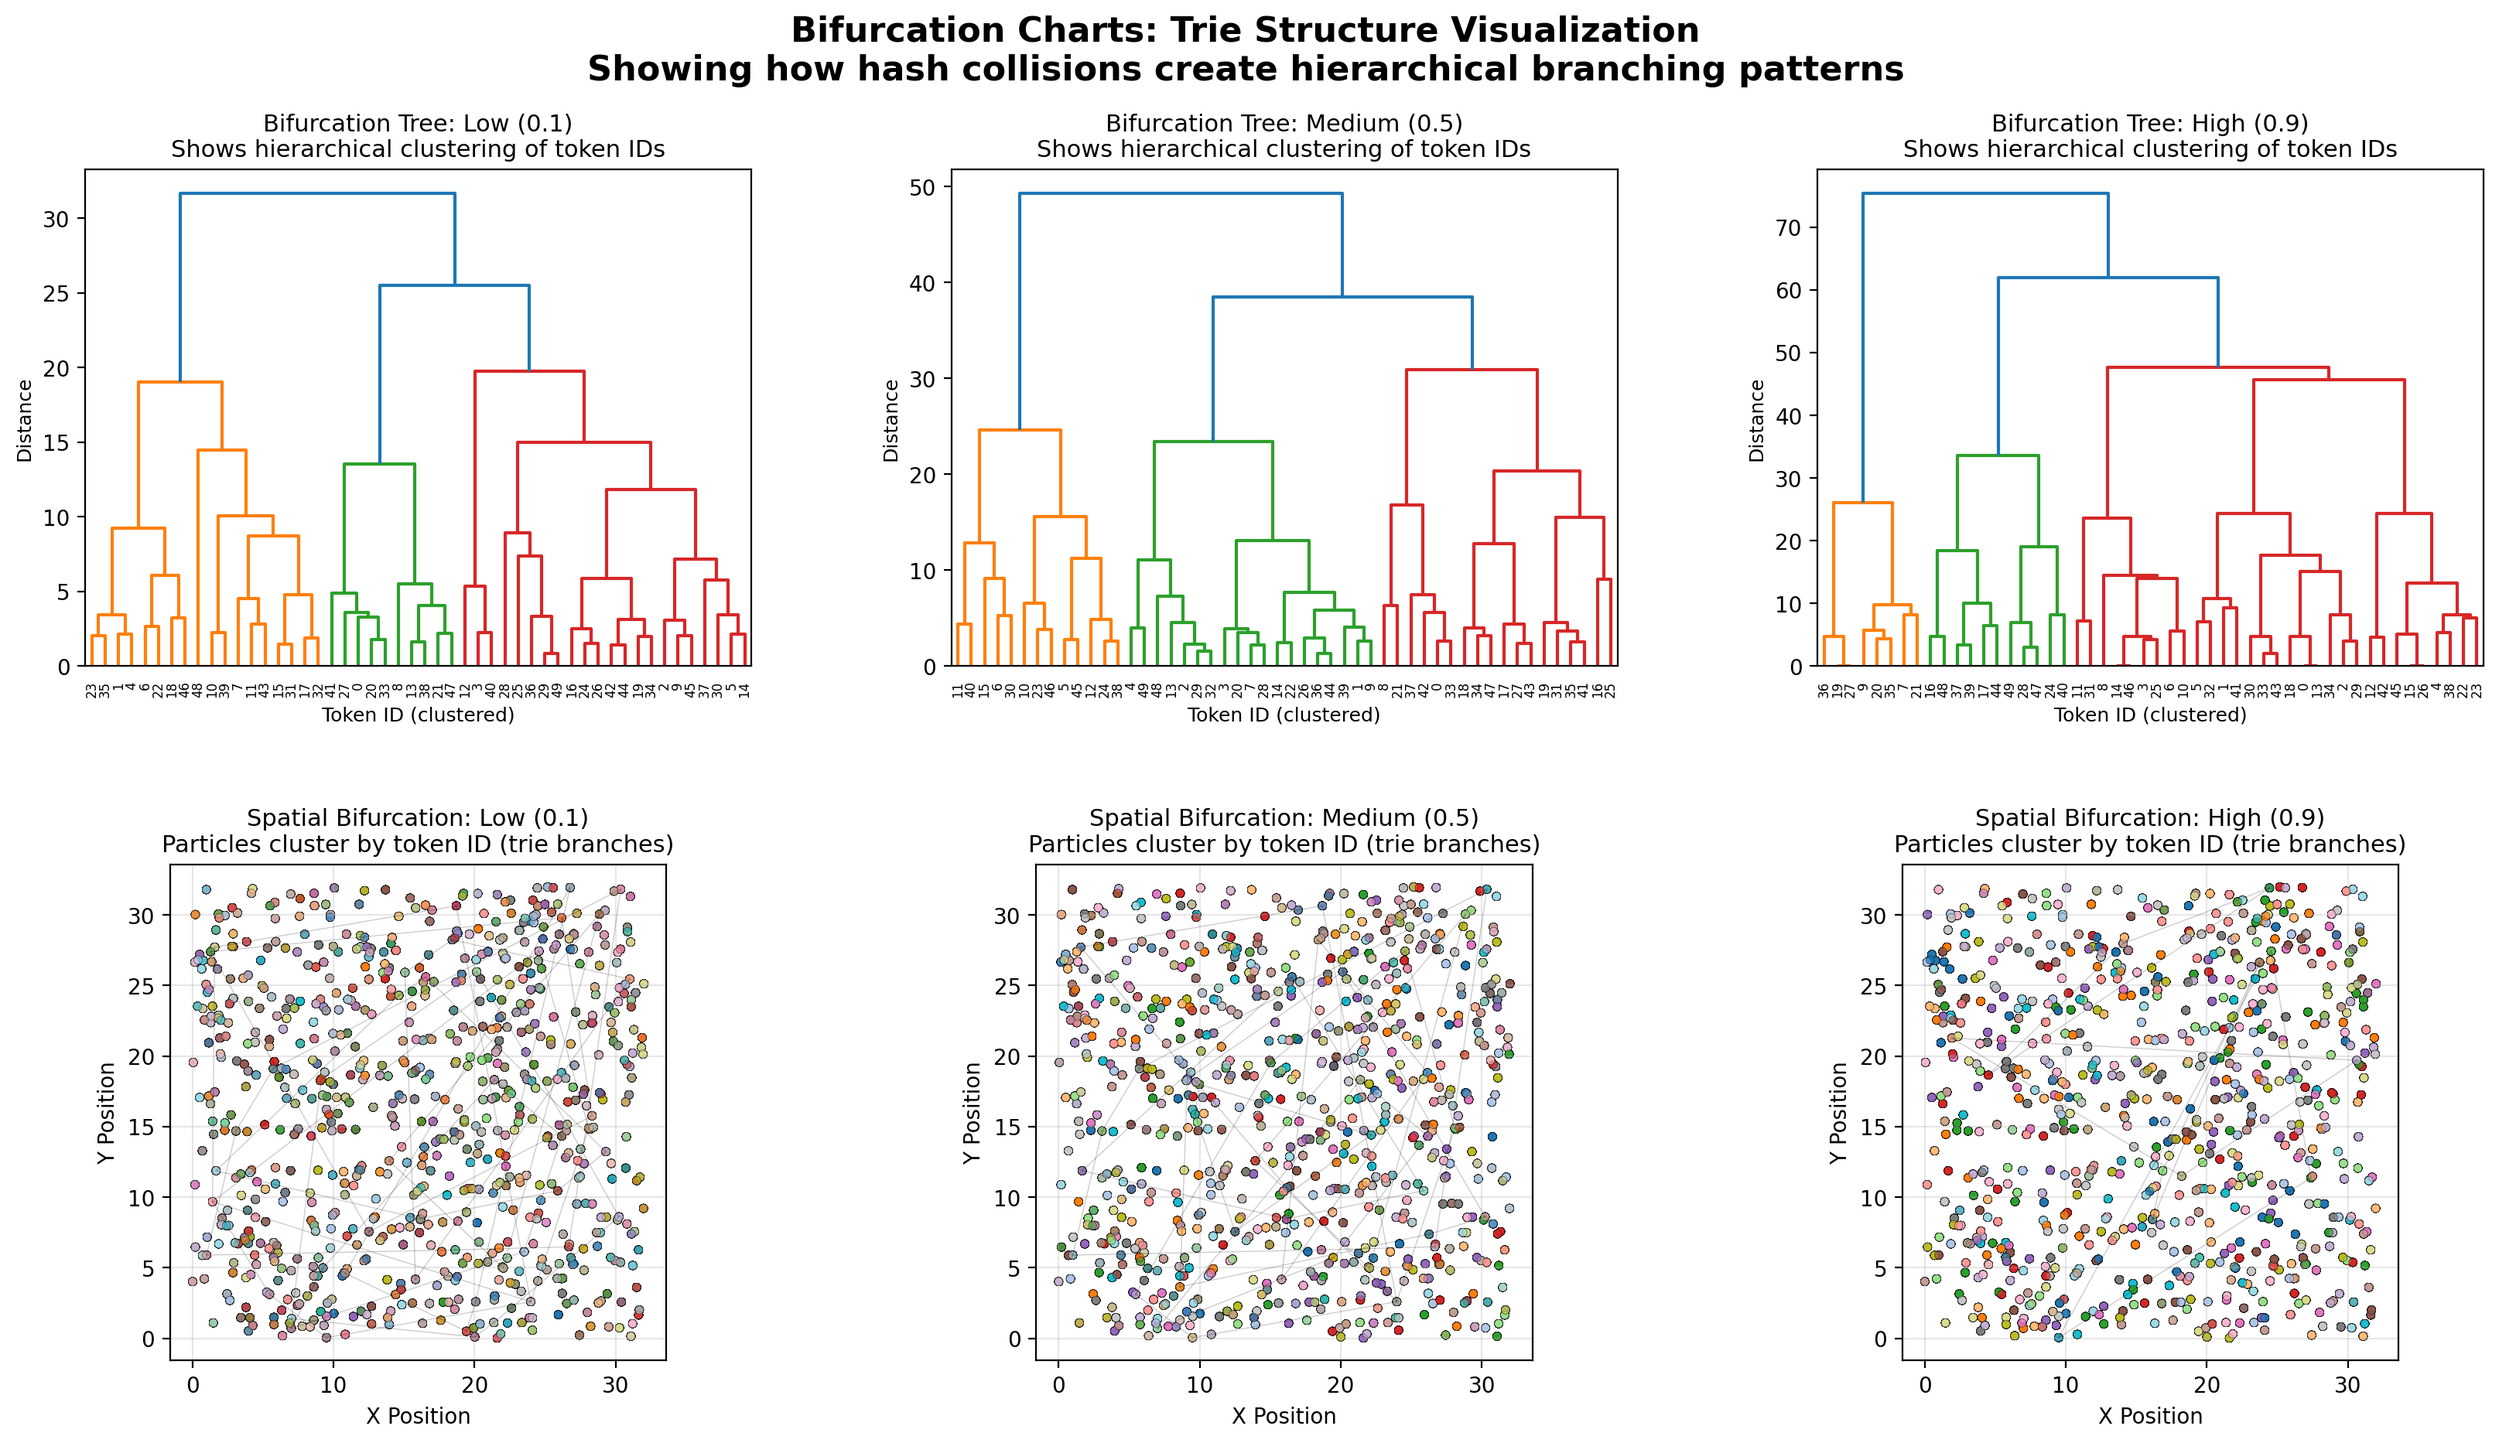
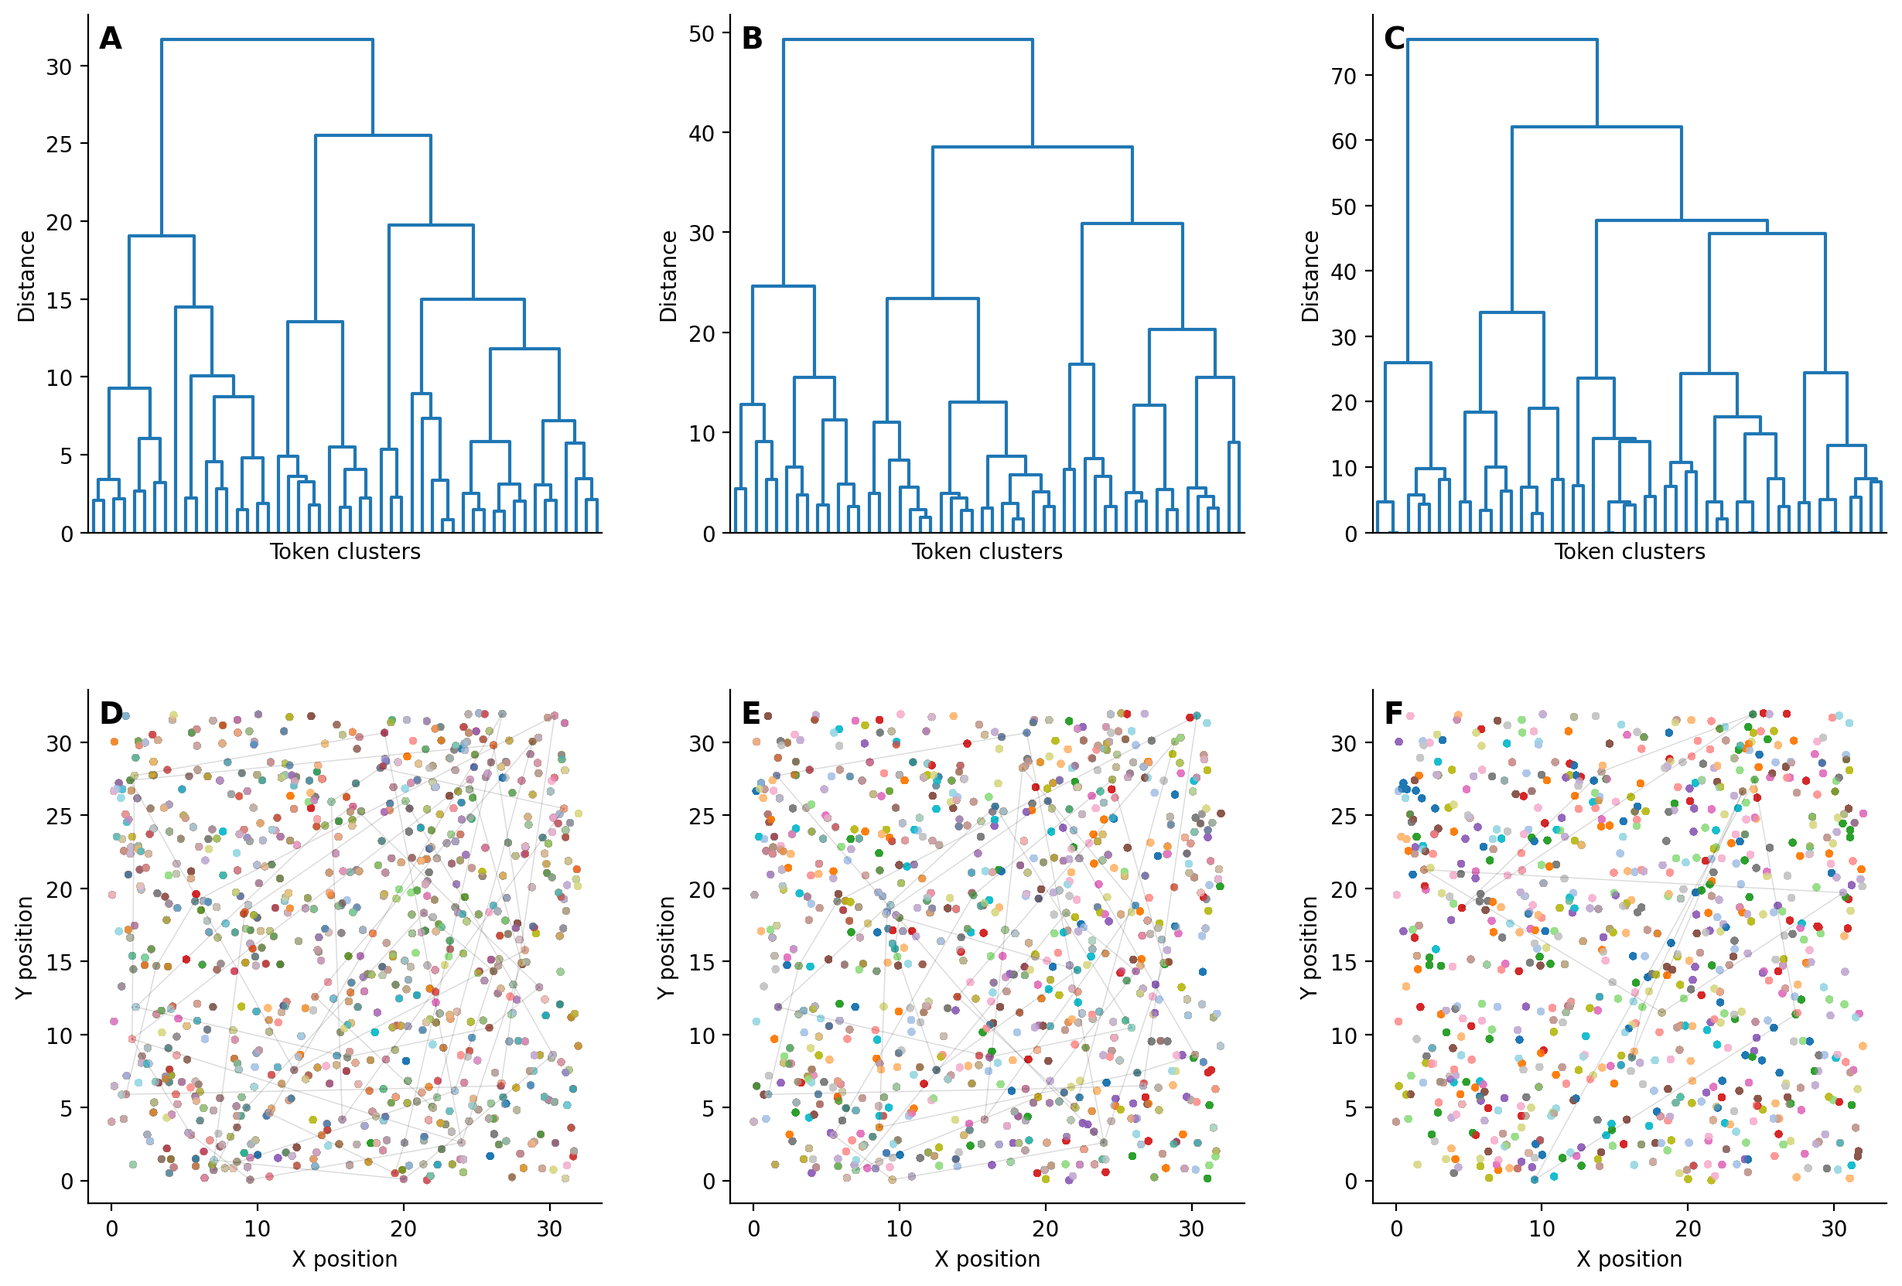
Update image collision figures and refine summary table metrics
- Replaced existing binary figures for image collision bifurcation and hero with updated versions.
- Modified the image collision summary table to improve clarity by changing "Accum." to "Accumulation" and adjusting the table structure for better readability.

diff --git a/paper/tables/image_collision_summary.tex b/paper/tables/image_collision_summary.tex
@@ -2,18 +2,16 @@
 \centering
 \caption{Image-based hash collision compression metrics and inference performance. Higher collision rates lead to increased spatial clustering, energy accumulation, and compression. Inference accuracy measures prediction of missing pixels using learned spatial structure.}
 \label{tab:image_collision}
-\resizebox{\textwidth}{!}{%
-\begin{tabular}{lcccccc}
+\begin{tabular}{lccccccc}
 \toprule
 \textbf{Collision} & \textbf{Compression} & \textbf{Entropy} & \textbf{Spatial} & \textbf{Energy} & \textbf{Prediction} & \textbf{Reconstruction} \\
-\textbf{Rate} & \textbf{Ratio} & \textbf{(bits)} & \textbf{Clustering} & \textbf{Accum.} & \textbf{Accuracy} & \textbf{Error} \\
+\textbf{Rate} & \textbf{Ratio} & \textbf{(bits)} & \textbf{Clustering} & \textbf{Accumulation} & \textbf{Accuracy} & \textbf{Error} \\
 \midrule
-0.1 & 0.1044 & 11.75 & 0.0464 & 1.0000 & 0.185 & 0.310 \\
-0.3 & 0.1043 & 11.37 & 0.0478 & 1.0000 & 0.199 & 0.310 \\
-0.5 & 0.1034 & 10.94 & 0.0503 & 1.0000 & 0.142 & 0.368 \\
-0.7 & 0.0983 & 10.46 & 0.0553 & 1.0000 & 0.149 & 0.311 \\
-0.9 & 0.0677 & 9.85 & 0.0918 & 1.0000 & 0.174 & 0.294 \\
+0.1 & 0.1044 & 11.75 & 0.0464 & 1.0000 & 0.176 & 0.313 \\
+0.3 & 0.1043 & 11.37 & 0.0478 & 1.0000 & 0.194 & 0.311 \\
+0.5 & 0.1034 & 10.94 & 0.0503 & 1.0000 & 0.156 & 0.353 \\
+0.7 & 0.0983 & 10.46 & 0.0553 & 1.0000 & 0.177 & 0.320 \\
+0.9 & 0.0677 & 9.85 & 0.0918 & 1.0000 & 0.179 & 0.281 \\
 \bottomrule
-\end{tabular}%
-}
+\end{tabular}
 \end{table}
